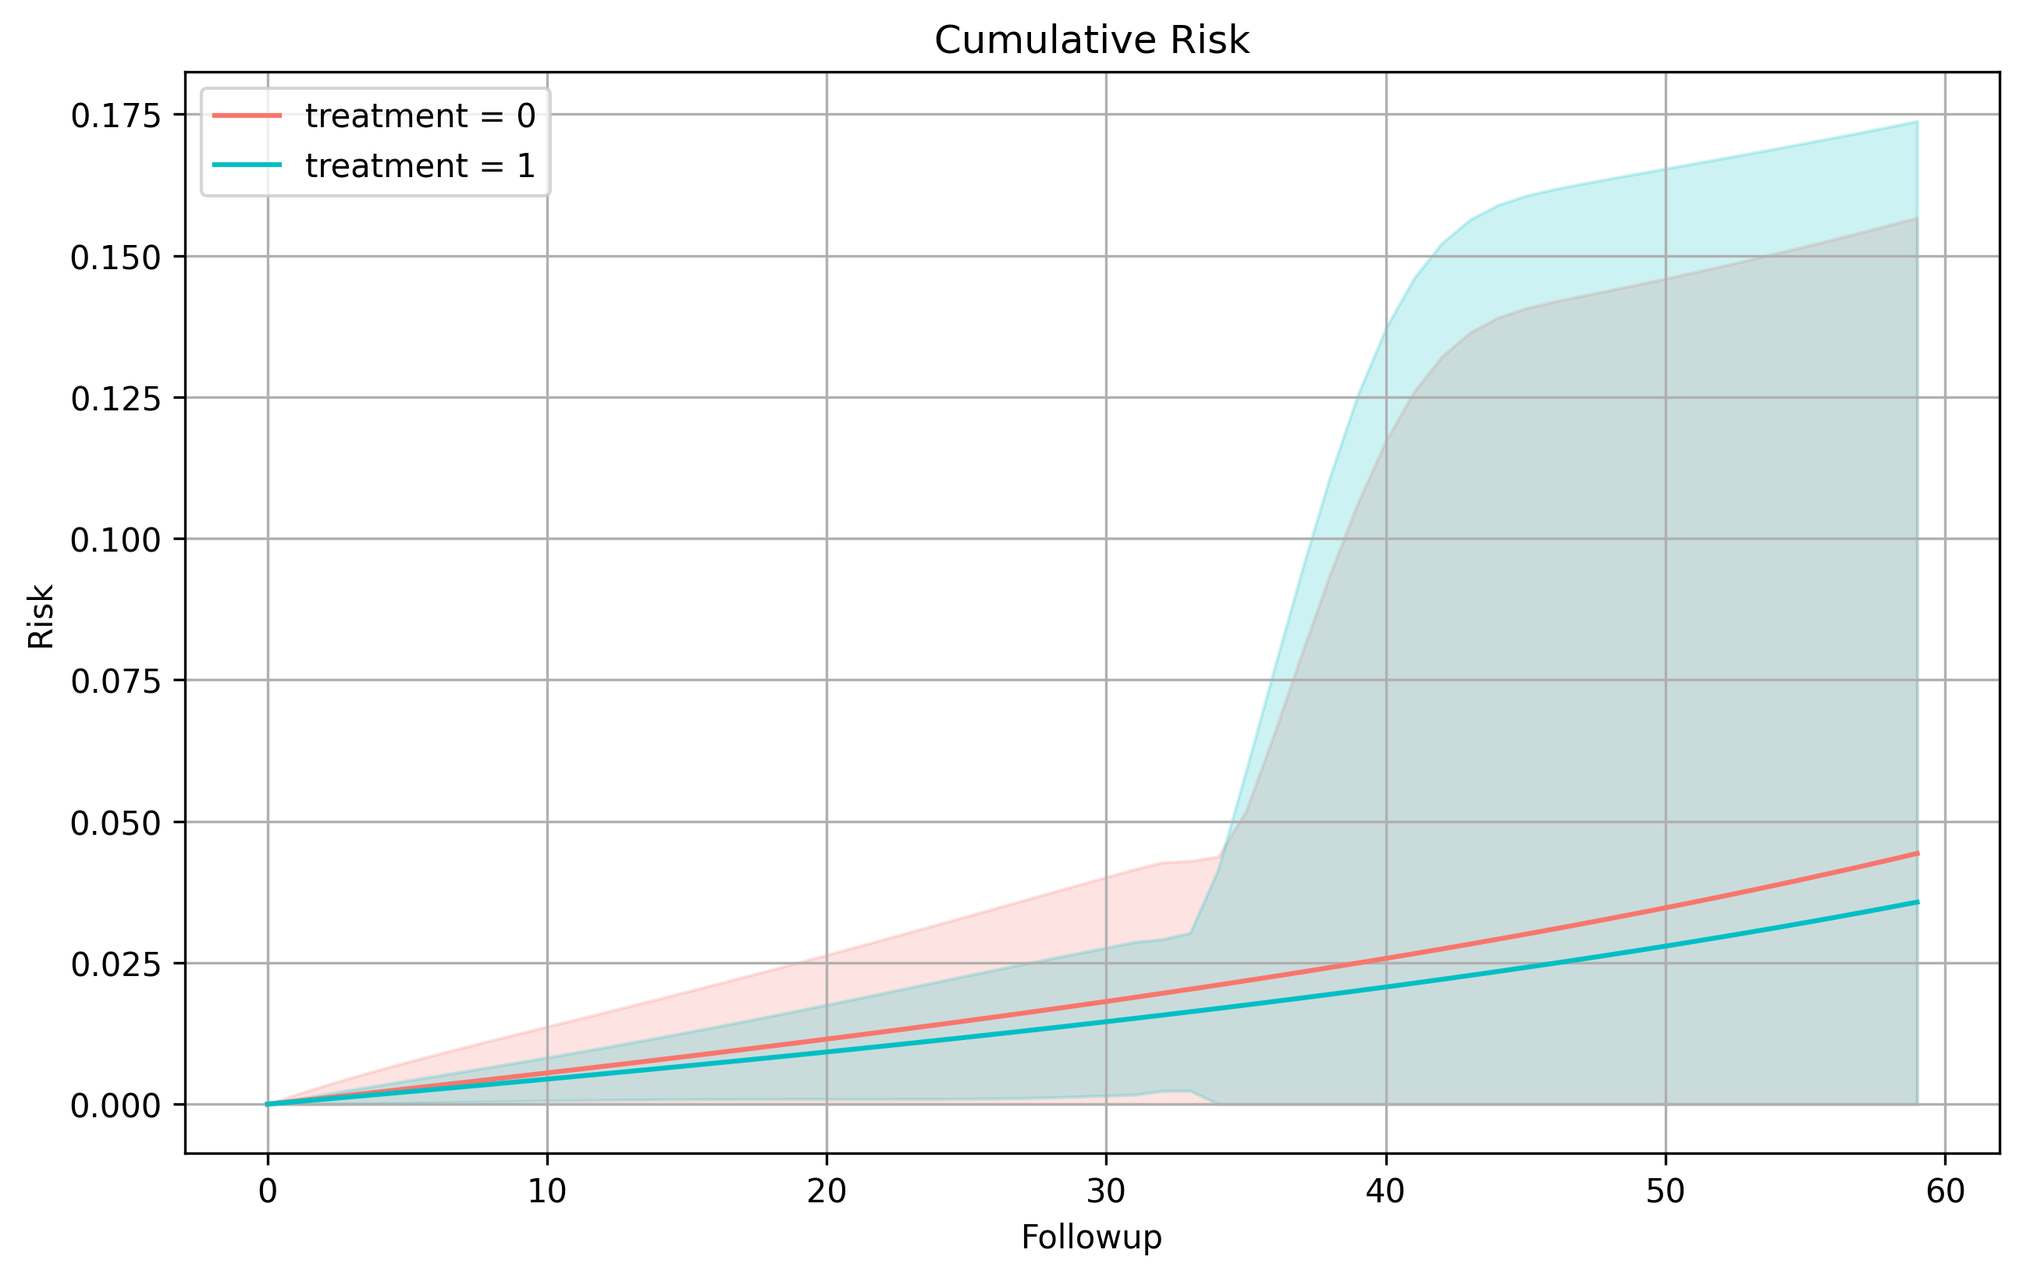
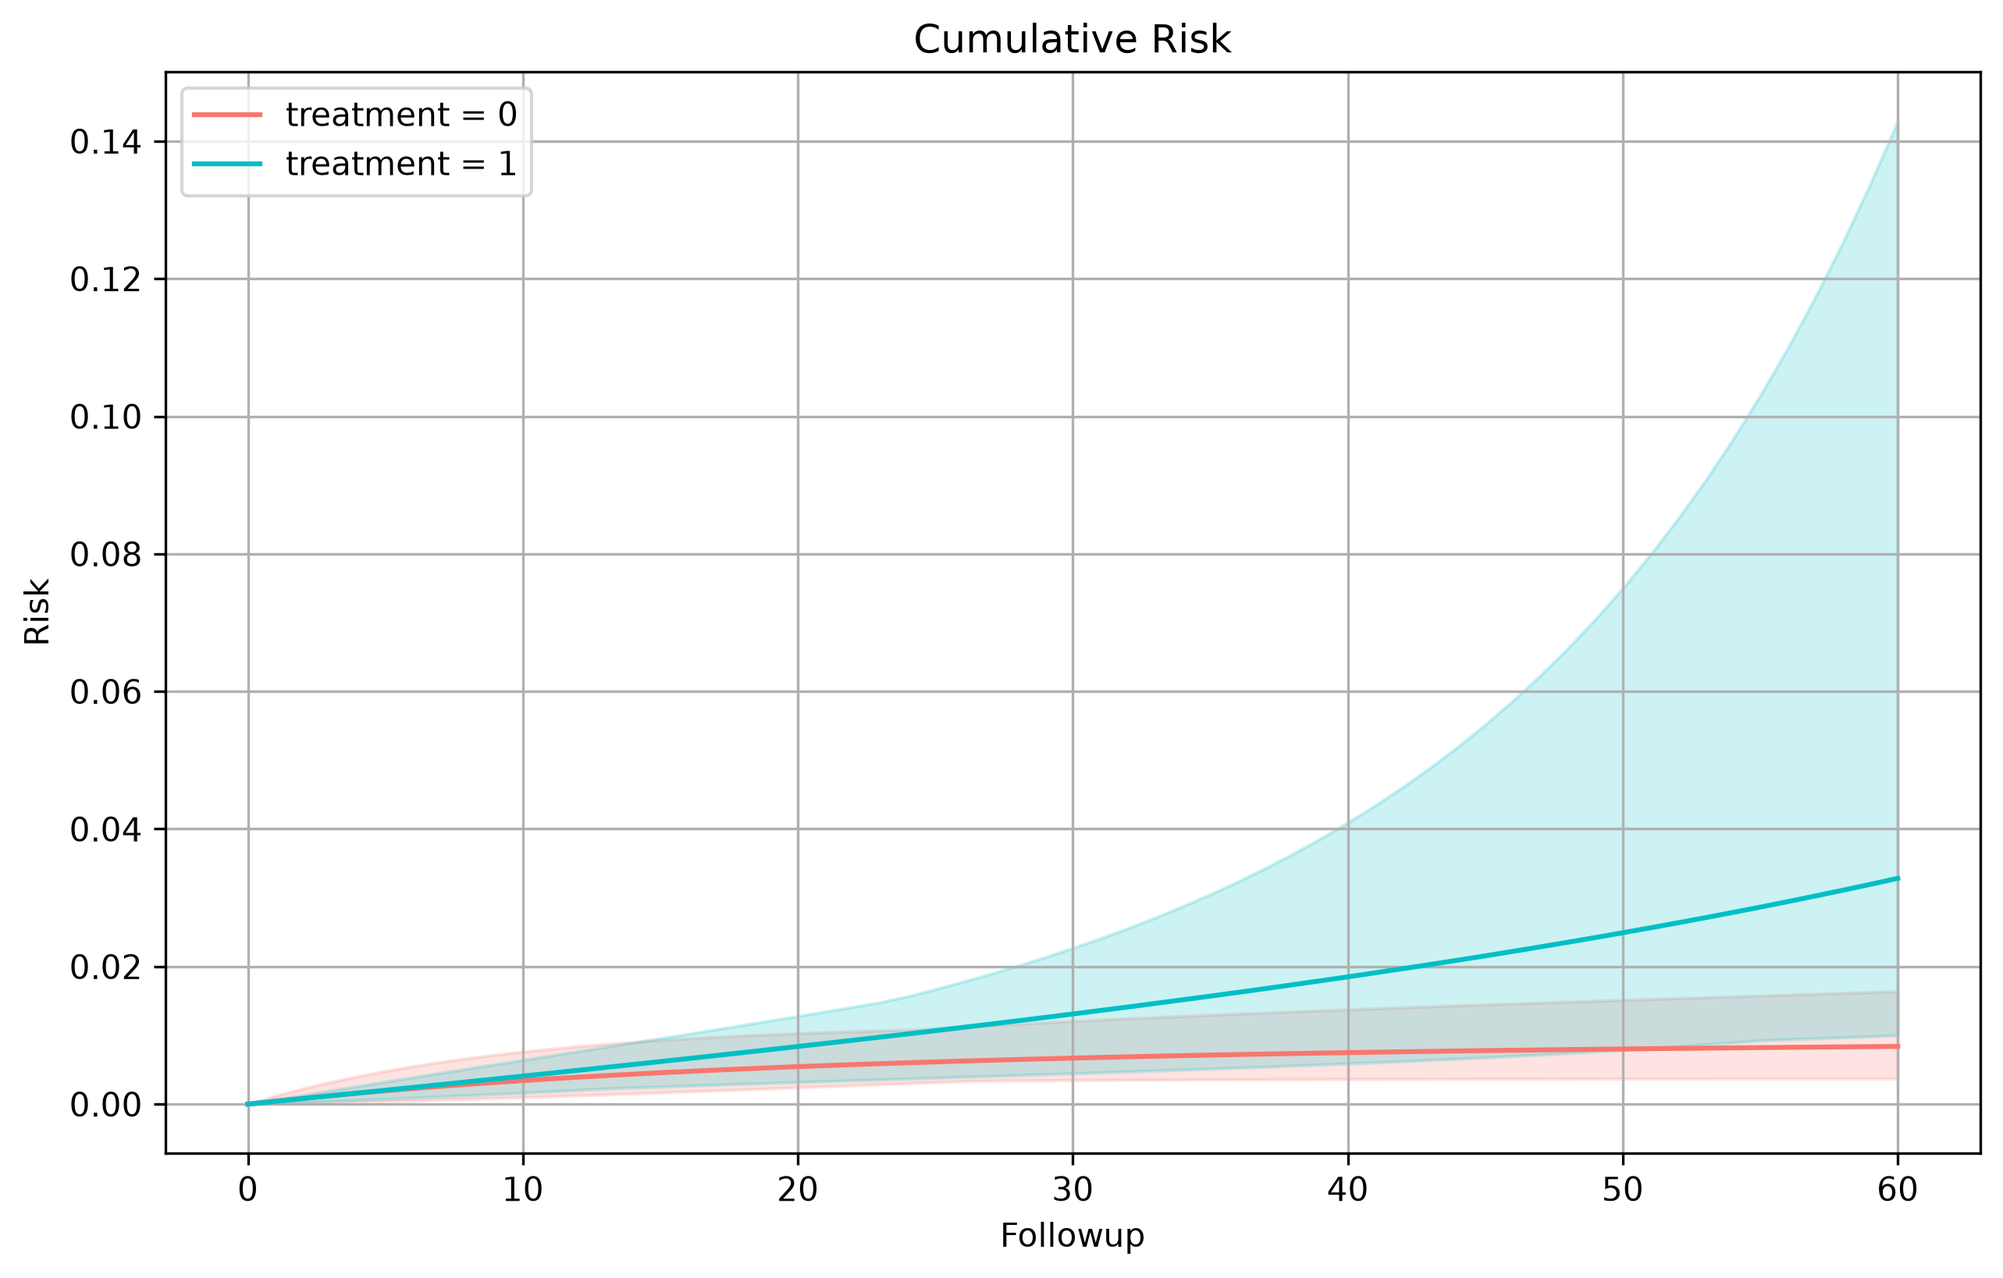
Regenerate the advanced-analysis vignettes for clearer, sensible output

diff --git a/docs/vignettes/exploring_results.md b/docs/vignettes/exploring_results.md
@@ -12,72 +12,40 @@ Let us now go over what the dump to md looks like and explore our output in furt
 
 ## Weighting
 
-We begin by exploring the weight models, this gives us general information about the numerator and denominator models, as well as weight statistics before applying any limits. If you recall, we imposed weight bounds at the 99th percentile. This means that in the outcome model our weights will be bound at [0.273721, 423.185]. Note that in real analysis, we would hope the weights are stabilized further. Using the generated data, specifically with excused analysis, often result in larger-than-intended weights.
+We begin by exploring the weight models, this gives us general information about the denominator model, as well as weight statistics before applying any limits. With pre-expansion weights and excused conditions the numerator is fixed at 1, so there is no numerator model and the weights are not stabilized; they have a long right tail, which is why we bound them at the 1st and 99th percentiles. This means that in the outcome model our weights will be bound at [0.999954, 19.8889].
 
-We should also note here that in excused-censoring analysis, our adherance models hold `switch` as the dependent variable. In all non-excused cases, this would normally be your treatment value.
-
-### Numerator Model
-
-```
-                          MNLogit Regression Results                          
-==============================================================================
-Dep. Variable:                 switch   No. Observations:                65375
-Model:                        MNLogit   Df Residuals:                    65366
-Method:                           MLE   Df Model:                            8
-Date:                Wed, 10 Dec 2025   Pseudo R-squ.:                0.008332
-Time:                        10:18:38   Log-Likelihood:                -13986.
-converged:                       True   LL-Null:                       -14103.
-Covariance Type:            nonrobust   LLR p-value:                 2.560e-46
-===============================================================================
-   switch=1       coef    std err          z      P>|z|      [0.025      0.975]
--------------------------------------------------------------------------------
-Intercept      -0.8797      0.692     -1.271      0.204      -2.236       0.477
-sex[T.1]       -0.0461      0.035     -1.325      0.185      -0.114       0.022
-N_bas           0.0026      0.003      0.741      0.459      -0.004       0.009
-L_bas           0.3368      0.032     10.553      0.000       0.274       0.399
-P_bas          -0.1864      0.073     -2.556      0.011      -0.329      -0.043
-followup       -0.0211      0.006     -3.822      0.000      -0.032      -0.010
-followup_sq     0.0001      0.000      0.637      0.524      -0.000       0.000
-trial          -0.0624      0.014     -4.430      0.000      -0.090      -0.035
-trial_sq        0.0004      0.000      2.309      0.021    5.78e-05       0.001
-===============================================================================
-```
+We should also note here that with pre-expansion weights the denominator model has the treatment as its dependent variable. With post-expansion weights (`weight_preexpansion=False`), excused-censoring models hold `switch` as the dependent variable instead.
 
 ### Denominator Model
 
 ```
-                          MNLogit Regression Results                          
+                           Logit Regression Results                           
 ==============================================================================
-Dep. Variable:                 switch   No. Observations:                65375
-Model:                        MNLogit   Df Residuals:                    65363
-Method:                           MLE   Df Model:                           11
-Date:                Wed, 10 Dec 2025   Pseudo R-squ.:                 0.01586
-Time:                        10:18:38   Log-Likelihood:                -13880.
-converged:                       True   LL-Null:                       -14103.
-Covariance Type:            nonrobust   LLR p-value:                 5.374e-89
-===============================================================================
-   switch=1       coef    std err          z      P>|z|      [0.025      0.975]
--------------------------------------------------------------------------------
-Intercept      -1.4384      0.715     -2.012      0.044      -2.840      -0.037
-sex[T.1]       -0.0447      0.035     -1.281      0.200      -0.113       0.024
-N              -0.0195      0.003     -5.655      0.000      -0.026      -0.013
-L               0.3719      0.062      6.025      0.000       0.251       0.493
-P               0.9362      0.139      6.723      0.000       0.663       1.209
-N_bas           0.0023      0.003      0.674      0.501      -0.004       0.009
-L_bas          -0.1703      0.092     -1.842      0.066      -0.351       0.011
-P_bas          -0.9966      0.139     -7.166      0.000      -1.269      -0.724
-followup        0.0906      0.022      4.164      0.000       0.048       0.133
-followup_sq    -0.0007      0.000     -3.678      0.000      -0.001      -0.000
-trial          -0.0695      0.014     -4.934      0.000      -0.097      -0.042
-trial_sq        0.0006      0.000      3.788      0.000       0.000       0.001
-===============================================================================
+Dep. Variable:                tx_init   No. Observations:                 6137
+Model:                          Logit   Df Residuals:                     6130
+Method:                           MLE   Df Model:                            6
+Date:                Tue, 13 Oct 2026   Pseudo R-squ.:               0.0006500
+Time:                        10:31:40   Log-Likelihood:                -3017.9
+converged:                       True   LL-Null:                       -3019.8
+Covariance Type:            nonrobust   LLR p-value:                    0.6867
+==============================================================================
+                 coef    std err          z      P>|z|      [0.025      0.975]
+------------------------------------------------------------------------------
+Intercept     -2.2157      1.214     -1.824      0.068      -4.596       0.165
+sex            0.0331      0.065      0.511      0.609      -0.094       0.160
+N             -0.0105      0.006     -1.648      0.099      -0.023       0.002
+L             -0.0177      0.052     -0.343      0.732      -0.119       0.083
+P              0.0945      0.128      0.741      0.459      -0.156       0.345
+time           0.0147      0.024      0.609      0.542      -0.033       0.062
+time_sq    -1.602e-05      0.000     -0.066      0.947      -0.000       0.000
+==============================================================================
 ```
 
 ### Weighting Statistics
 
 |   weight_min |   weight_max |   weight_mean |   weight_std |   weight_p01 |   weight_p25 |   weight_p50 |   weight_p75 |   weight_p99 |
 |-------------:|-------------:|--------------:|-------------:|-------------:|-------------:|-------------:|-------------:|-------------:|
-|  3.11308e-08 |  9.08003e+30 |   1.97762e+26 |  3.39822e+28 |     0.260691 |     0.853367 |      1.02192 |      1.28444 |        30119 |
+|     0.999923 |      24934.2 |       2.05553 |      33.0393 |     0.999954 |     0.999995 |      1.00002 |      1.26351 |      19.8889 |
 
 ## Outcome
 
@@ -88,29 +56,26 @@ After weight information, we begin to gather information about the outcome model
 ```
                  Generalized Linear Model Regression Results                  
 ==============================================================================
-Dep. Variable:                outcome   No. Observations:               658971
-Model:                            GLM   Df Residuals:                   658961
-Model Family:                Binomial   Df Model:                            9
+Dep. Variable:                outcome   No. Observations:               670413
+Model:                            GLM   Df Residuals:                   670406
+Model Family:                Binomial   Df Model:                            6
 Link Function:                  Logit   Scale:                          1.0000
-Method:                          IRLS   Log-Likelihood:                -2844.7
-Date:                Wed, 10 Dec 2025   Deviance:                       5689.4
-Time:                        10:18:38   Pearson chi2:                 6.80e+05
-No. Iterations:                    11   Pseudo R-squ. (CS):          0.0001638
+Method:                          IRLS   Log-Likelihood:                -3096.8
+Date:                Tue, 13 Oct 2026   Deviance:                       6193.6
+Time:                        10:31:40   Pearson chi2:                 1.02e+06
+No. Iterations:                    13   Pseudo R-squ. (CS):          0.0002477
 Covariance Type:            nonrobust                                         
-====================================================================================
-                       coef    std err          z      P>|z|      [0.025      0.975]
-------------------------------------------------------------------------------------
-Intercept          -23.1102      2.697     -8.569      0.000     -28.396     -17.824
-tx_init_bas[T.1]    -0.2221      0.185     -1.203      0.229      -0.584       0.140
-sex[T.1]            -0.5588      0.113     -4.942      0.000      -0.780      -0.337
-followup             0.0060      0.015      0.416      0.678      -0.022       0.035
-followup_sq          0.0001      0.000      0.465      0.642      -0.000       0.001
-trial                0.3377      0.054      6.274      0.000       0.232       0.443
-trial_sq            -0.0022      0.001     -4.223      0.000      -0.003      -0.001
-N_bas               -0.0007      0.011     -0.066      0.947      -0.022       0.021
-L_bas               -0.3595      0.072     -4.962      0.000      -0.501      -0.217
-P_bas                1.6141      0.281      5.752      0.000       1.064       2.164
-====================================================================================
+=============================================================================================
+                                coef    std err          z      P>|z|      [0.025      0.975]
+---------------------------------------------------------------------------------------------
+Intercept                    -9.5140      0.371    -25.647      0.000     -10.241      -8.787
+tx_init_bas[T.1]             -0.0750      0.343     -0.219      0.827      -0.748       0.598
+followup                     -0.0560      0.024     -2.346      0.019      -0.103      -0.009
+tx_init_bas[T.1]:followup     0.0581      0.022      2.633      0.008       0.015       0.101
+followup_sq                   0.0002      0.000      0.677      0.498      -0.000       0.001
+trial                         0.1249      0.018      7.092      0.000       0.090       0.159
+trial_sq                     -0.0017      0.000     -4.600      0.000      -0.002      -0.001
+=============================================================================================
 ```
 
 ### Survival
@@ -125,21 +90,21 @@ survival_data = my_output.retrieve_data("km_data")
 
 #### Risk Differences
 
-|   A_x |   A_y |   Risk Difference |   RD 95% LCI |   RD 95% UCI |
-|------:|------:|------------------:|-------------:|-------------:|
-|     0 |     1 |        0.00859802 |    -0.169438 |     0.186634 |
-|     1 |     0 |       -0.00859802 |    -0.186634 |     0.169438 |
+|   Followup |   A_x |   A_y |   Risk Difference |   RD 95% LCI |   RD 95% UCI |     RD SE |
+|-----------:|------:|------:|------------------:|-------------:|-------------:|----------:|
+|         60 |     0 |     1 |        -0.0244359 |  -0.126522   |  -0.00410246 | 0.0270593 |
+|         60 |     1 |     0 |         0.0244359 |   0.00410246 |   0.126522   | 0.0270593 |
 
 #### Risk Ratios
 
-|   A_x |   A_y |   Risk Ratio |   RR 95% LCI |   RR 95% UCI |
-|------:|------:|-------------:|-------------:|-------------:|
-|     0 |     1 |     1.24069  |   0.0121904  |      126.272 |
-|     1 |     0 |     0.806005 |   0.00791939 |       82.032 |
+|   Followup |   A_x |   A_y |   Risk Ratio |   RR 95% LCI |   RR 95% UCI |   log(RR) SE |
+|-----------:|------:|------:|-------------:|-------------:|-------------:|-------------:|
+|         60 |     0 |     1 |     0.255543 |     0.114726 |     0.632205 |      0.48761 |
+|         60 |     1 |     0 |     3.91324  |     1.58177  |     8.71642  |      0.48761 |
 
-#### Survival Curves
+#### Cumulative Risk
 
-![Kaplan-Meier Survival Curves](SEQuential_results.png)
+![Cumulative Risk](SEQuential_results.png)
 
 ## Diagnostic Tables
 
@@ -147,42 +112,56 @@ After all of our primary results, we are met with a few diagnostic tables. These
 
 Because we have an excused-censoring analysis, we are also provided with information about switches from treatment as well as how many of these switches were excused.
 
-### Unique Outcomes
+### Unique Outcomes (distinct subjects who had the outcome)
 
 |   tx_init |   outcome |   len |
 |----------:|----------:|------:|
-|         0 |         0 |   249 |
+|         1 |         0 |   713 |
+|         0 |         1 |     5 |
 |         1 |         1 |     8 |
-|         0 |         1 |     4 |
-|         1 |         0 |   715 |
+|         0 |         0 |   252 |
 
-### Nonunique Outcomes
+### Nonunique Outcomes (total outcome events)
 
 |   tx_init |   outcome |    len |
 |----------:|----------:|-------:|
-|         0 |         1 |     73 |
-|         1 |         0 | 546644 |
-|         1 |         1 |    227 |
-|         0 |         0 | 117007 |
+|         1 |         0 | 553803 |
+|         0 |         0 | 121031 |
+|         0 |         1 |     70 |
+|         1 |         1 |    209 |
 
-### Unique Switches
+### Unique Followup (distinct subjects contributing follow-up)
+
+|   tx_init_bas |   len |
+|--------------:|------:|
+|             0 |   828 |
+|             1 |   913 |
+
+### Nonunique Followup (person-time intervals)
+
+|   tx_init_bas |    len |
+|--------------:|-------:|
+|             0 |  59827 |
+|             1 | 610586 |
+
+### Unique Switches (distinct subjects who switched)
 
 |   tx_init | isExcused   |   switch |   len |
 |----------:|:------------|---------:|------:|
-|         0 | True        |        1 |    30 |
-|         1 | False       |        1 |    47 |
-|         0 | False       |        1 |    91 |
-|         1 | True        |        1 |    32 |
-|         0 | False       |        0 |   132 |
-|         1 | False       |        0 |   644 |
+|         1 | False       |        0 |   646 |
+|         0 | True        |        1 |    29 |
+|         1 | True        |        1 |    33 |
+|         0 | False       |        1 |    94 |
+|         0 | False       |        0 |   134 |
+|         1 | False       |        1 |    42 |
 
-### Nonunique Switches
+### Nonunique Switches (total switch intervals)
 
 |   tx_init | isExcused   |   switch |    len |
 |----------:|:------------|---------:|-------:|
-|         0 | True        |        0 |  22056 |
-|         0 | False       |        1 |   3724 |
-|         1 | False       |        1 |   1256 |
-|         1 | False       |        0 | 527107 |
-|         1 | True        |        0 |  18508 |
-|         0 | False       |        0 |  91300 |
+|         0 | True        |        0 |  23012 |
+|         0 | False       |        1 |   3394 |
+|         1 | False       |        1 |   1306 |
+|         1 | False       |        0 | 533916 |
+|         0 | False       |        0 |  94695 |
+|         1 | True        |        0 |  18790 |

diff --git a/docs/vignettes/more_advanced_models.md b/docs/vignettes/more_advanced_models.md
@@ -1,7 +1,7 @@
 # More Advanced Analysis
 In getting started, we covered some of the basics for getting up and running on a simple analysis, but there are many options stored within `SEQuential`, or more aptly, many more parameters to play with in {py:class}`~pySEQTarget.SEQopts`. Let's cover a more in-depth analysis.
 
-In this case, let's go over a censoring analysis with excused conditions and stabilized weighting, limiting weights to the 99th percentile, and adjusting for losses-to-followup. Futhermore, we are interested in bootstrapping our results to get a risk estimate with confidence bounds and for ease of computation, we are going to randomly downsample 30% of trials which did not initiate treatment. Because we are downsampling, we are additionally going to turn off the lag condition for our adherance weights.
+In this case, let's go over a censoring analysis with excused conditions and inverse probability weighting, limiting weights to the 99th percentile, and adjusting for losses-to-followup. Futhermore, we are interested in bootstrapping our results to get a risk estimate with confidence bounds and for ease of computation, we are going to randomly downsample 30% of trials which did not initiate treatment.
 
 If you are coming from the R version, many arguments have been streamlined or inferred - take R's `bootstrap`, and `bootstrap.nboot` - these have been merged such that any `bootstrap_nboot` over 0 automatically starts the bootstrap initiation.
 
@@ -16,14 +16,15 @@ from pySEQTarget.data import load_data
 data = load_data("SEQdata_LTFU")
 my_options = SEQopts(
     bootstrap_nboot = 20,       # 20 bootstrap iterations (for demonstration only — use 500+ in practice)
+    bootstrap_CI_method = "percentile",  # percentile intervals stay within [0, 1]
     cense_colname = "LTFU",      # control for losses-to-followup as a censor
     excused = True,             # allow excused treatment swapping
     excused_colnames = ["excusedZero", "excusedOne"],
     km_curves = True,           # run survival estimates
+    plot_type = "risk",         # plot cumulative risk rather than survival
     selection_random = True,    #  randomly sample treatment non-initiators
     selection_sample = 0.30,     # sample 30% of treatment non-initiators
     weighted = True,            # enables the weighting
-    weight_lag_condition=False, # turn off lag condition when weighting for adherance
     weight_p99 = True,          # bounds weights by the 1st and 99th percentile
     weight_preexpansion = True  # weights are predicted using pre-expansion data
 )
